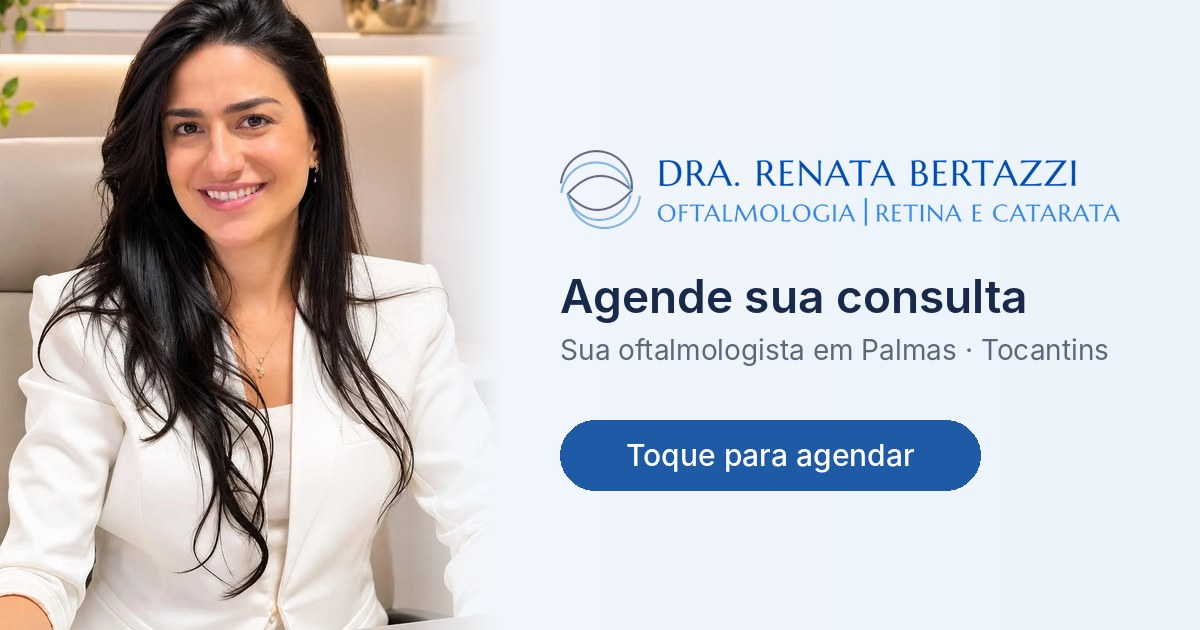
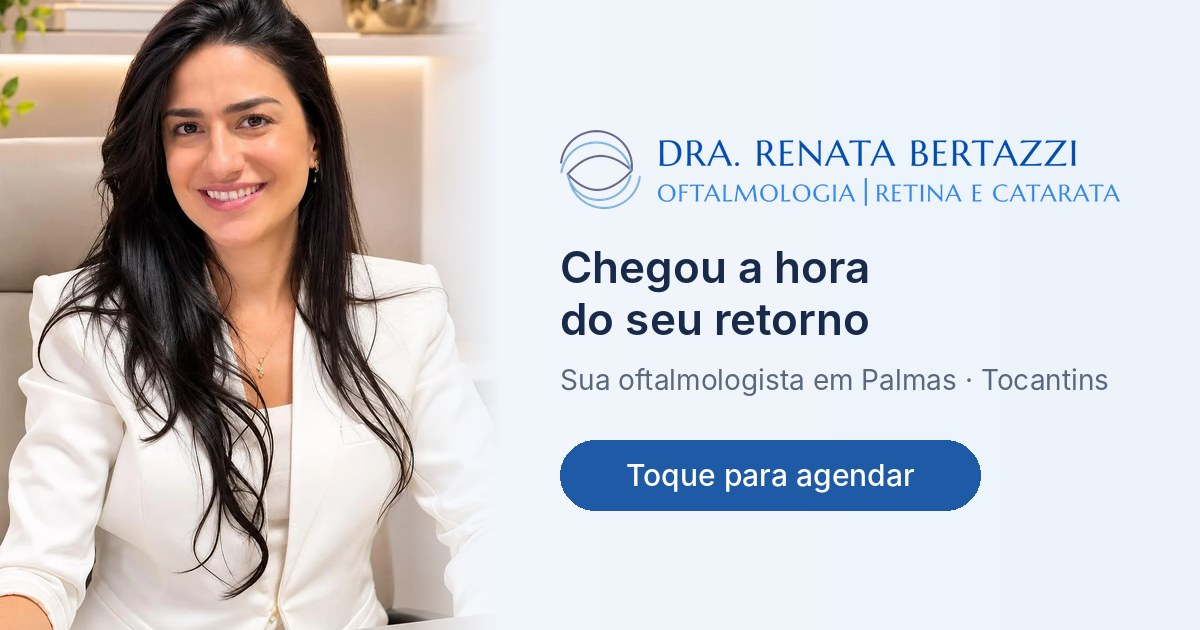
Cartão de agendamento: Chegou a hora do seu retorno
Claude-Session: https://claude.ai/code/session_01XXn2UBZbVRs2moVNyBZ2xP

Changed region(s): [[0.4625, 0.3921, 0.925, 0.6333], [0.4625, 0.2111, 0.9558, 0.3619], [0.4625, 0.6635, 0.8325, 0.8143]]

diff --git a/agendar-opus/index.html b/agendar-opus/index.html
@@ -1,9 +1,9 @@
 <!doctype html>
 <html lang="pt-BR"><head><meta charset="utf-8"><meta name="viewport" content="width=device-width,initial-scale=1">
-<title>Agende sua consulta · Dra. Renata Bertazzi</title>
+<title>Chegou a hora do seu retorno · Dra. Renata Bertazzi</title>
 <meta name="description" content="Agende sua consulta com a Dra. Renata Bertazzi, oftalmologista em Palmas (TO), pelo WhatsApp.">
 <meta property="og:type" content="website">
-<meta property="og:title" content="Dra. Renata Bertazzi · Agende sua consulta">
+<meta property="og:title" content="Dra. Renata Bertazzi · Chegou a hora do seu retorno">
 <meta property="og:description" content="Sua oftalmologista em Palmas · Toque para falar com a equipe no WhatsApp.">
 <meta property="og:image" content="https://drarenatabertazzi.com.br/img/cartao-agendar.jpg">
 <meta property="og:image:width" content="1200"><meta property="og:image:height" content="630">

diff --git a/agendar/index.html b/agendar/index.html
@@ -1,9 +1,9 @@
 <!doctype html>
 <html lang="pt-BR"><head><meta charset="utf-8"><meta name="viewport" content="width=device-width,initial-scale=1">
-<title>Agende sua consulta · Dra. Renata Bertazzi</title>
+<title>Chegou a hora do seu retorno · Dra. Renata Bertazzi</title>
 <meta name="description" content="Agende sua consulta com a Dra. Renata Bertazzi, oftalmologista em Palmas (TO), pelo WhatsApp.">
 <meta property="og:type" content="website">
-<meta property="og:title" content="Dra. Renata Bertazzi · Agende sua consulta">
+<meta property="og:title" content="Dra. Renata Bertazzi · Chegou a hora do seu retorno">
 <meta property="og:description" content="Sua oftalmologista em Palmas · Toque para falar com a equipe no WhatsApp.">
 <meta property="og:image" content="https://drarenatabertazzi.com.br/img/cartao-agendar.jpg">
 <meta property="og:image:width" content="1200"><meta property="og:image:height" content="630">
